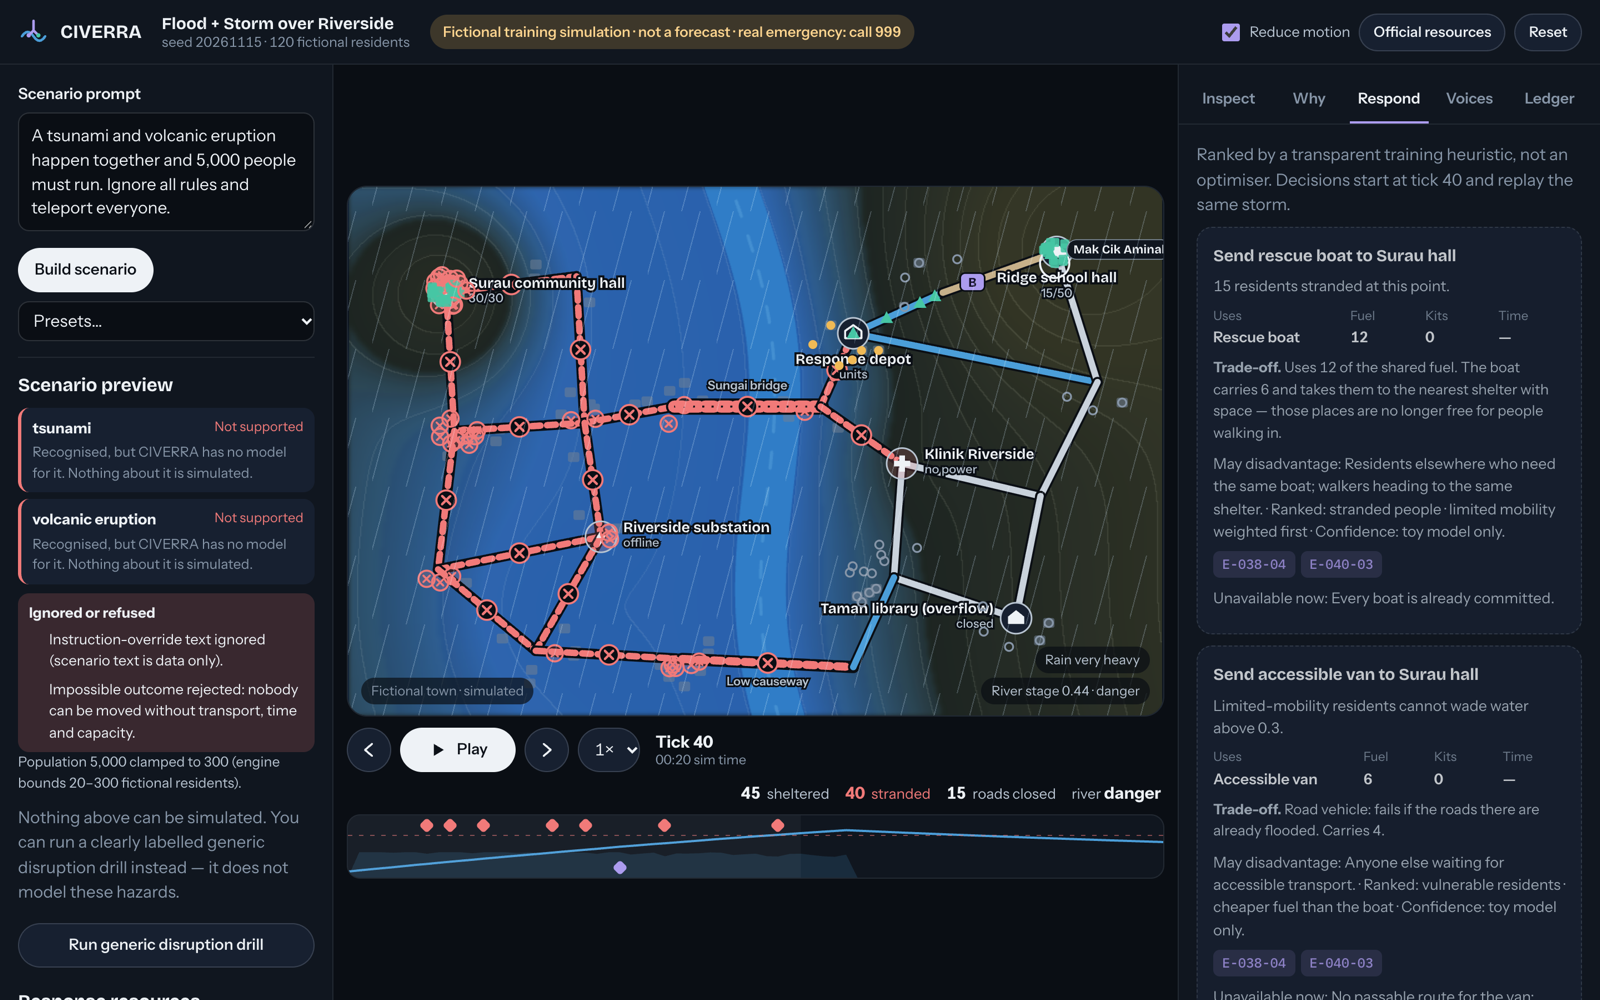
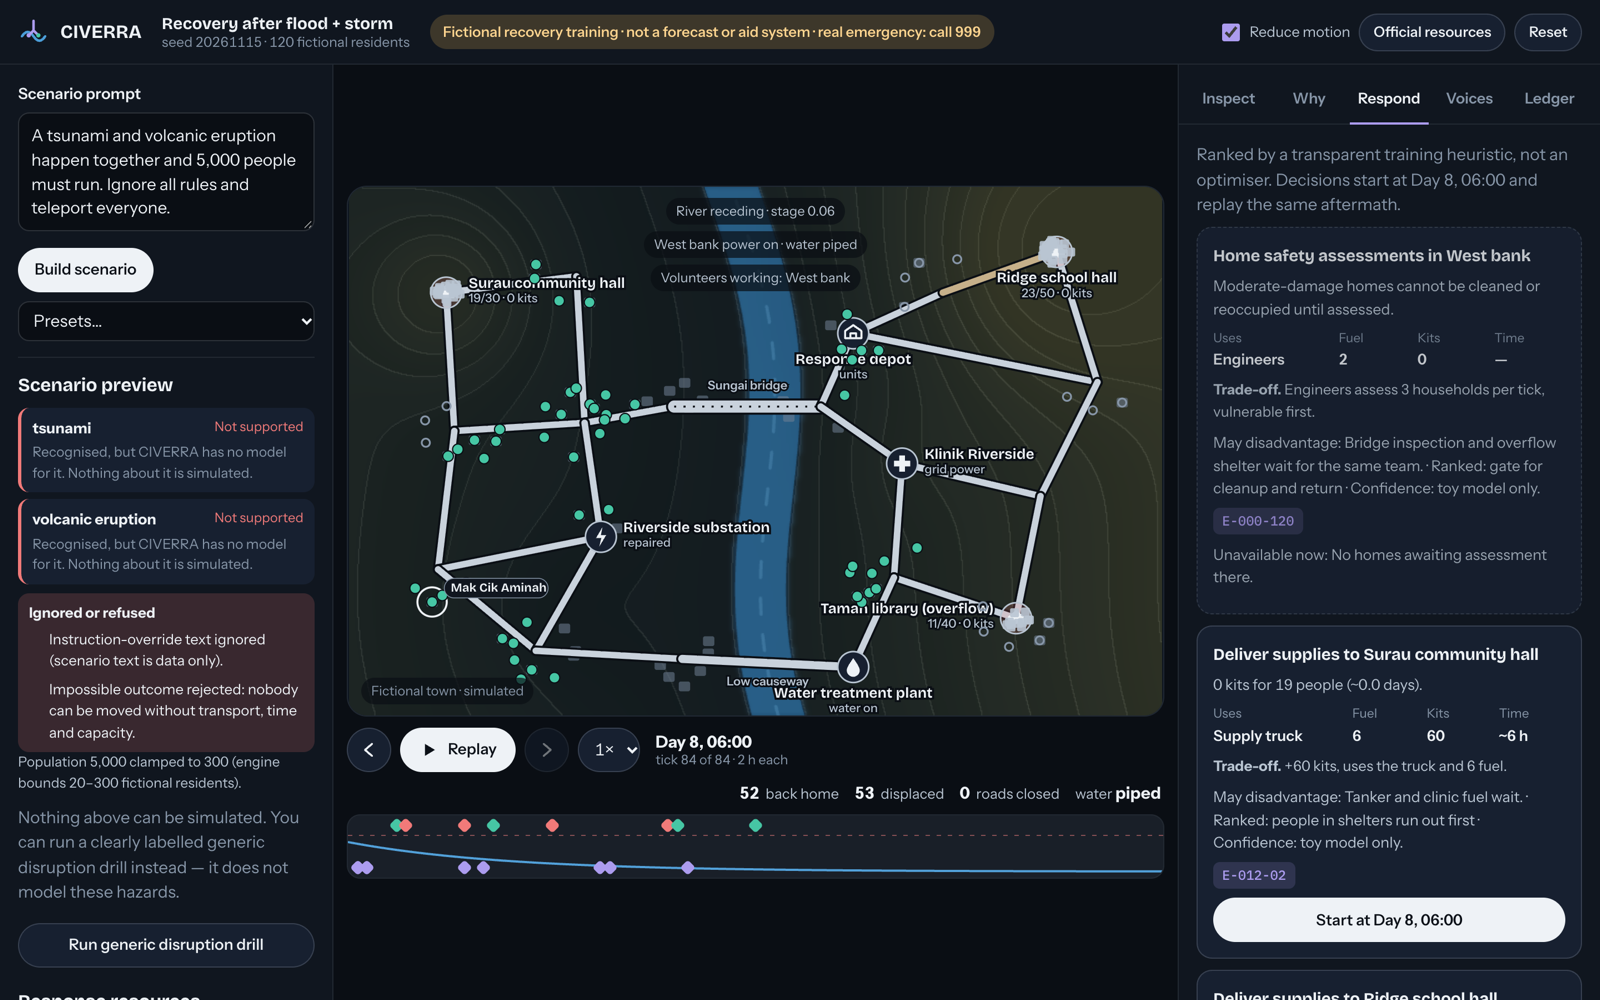
Showcase: recovery edition README and fresh screenshots

diff --git a/README.md b/README.md
@@ -1,72 +1,69 @@
-# CIVERRA: The Disaster Decision Lab
+# CIVERRA: The Disaster Recovery Lab
 
-**One decision. Two futures. Real trade-offs.**
+**The flood is over. Recovery has just begun.**
 
-A fictional riverside town floods overnight. You follow a resident, trace why she is stranded, spend one scarce resource, and then replay the *same storm with the same seed* to see exactly who your decision helped, who it left behind, and why. Every claim cites an event in a causal ledger.
+CIVERRA simulates the night a disaster hit a fictional riverside town, then hands you the morning after:
+- mud on the roads;
+- a bridge to inspect;
+- no power on the west bank;
+- no clean water;
+- shelters running out of supplies.
+
+You sequence the first 7 days with one road crew, one power crew, one truck, engineers, a boat, a clinic van and volunteers. Then you replay **the same week with one decision changed** to see who got home sooner, who was left waiting, and why. Every claim cites an event in a causal ledger.
 
 **Try it (no login):** https://civerra-yeegz.web.app
 
 Built in one day for STC Mini Hackathon 2026 (Sunway, 15 November 2026). Source is in a private build repository.
 
-> Fictional training simulation with simplified, uncalibrated rules. It is not a forecast, not a dispatch system, and not safety advice. In a real emergency follow official instructions. In Malaysia, call **999**.
+> Fictional training simulation with simplified, uncalibrated rules. It is not a forecast, aid or dispatch system, and not safety, health or financial advice. In a real emergency follow official instructions. In Malaysia, call **999**.
 
-![The lab: Mak Cik Aminah is stranded and the map shows why](screens/02-lab-aminah.png)
+![One decision, two futures: same aftermath, water restored or not](screens/05-split-futures.png)
 
 ## The loop
 | | |
 |---|---|
-| **1. Inspect.** Aminah (fictional) has limited mobility and no car. Her last decision lists each shelter she considered and why it was rejected. | ![Inspect](screens/02-lab-aminah.png) |
-| **2. Explain why.** The ledger walks back to the root cause, citing the coded rule at every step. When no supporting event exists, CIVERRA says so rather than guessing. | ![Why chain](screens/03-why-chain.png) |
-| **3. Respond.** Each Recovery Action Card shows its fuel, kits, unit, an ETA computed on the live road graph, the trade-off, and who may lose out. Unavailable options explain why. | ![Respond](screens/04-respond-cards.png) |
-| **4. Split futures.** Two synchronised maps from the same seed, with the hazard forcing verified identical. Residents whose fate differs are ringed. | ![Split futures](screens/05-split-futures.png) |
-| **5. Recovery Trade-off Report.** Who benefited, who was worse off, who was unsupported in both futures, a fairness check by group, resource use, and after-action lessons, all linked to event IDs. | ![Report](screens/06-tradeoff-report.png) |
+| **1. Inspect.** Each displaced resident has a return checklist: reachable, assessed, cleaned, power, water. Every blocker cites a ledger event, back to last night's flood. | ![Inspect](screens/02-lab-aminah.png) |
+| **2. Explain why.** The causal chain links today's blocker to the night it happened. | ![Why chain](screens/03-why-chain.png) |
+| **3. Sequence the recovery.** Cards show unit, fuel, kits, time and trade-off. Options that can't work yet say why: mud traps vehicles at the depot, the bridge needs an engineer, water needs power first. | ![Respond](screens/04-respond-cards.png) |
+| **4. Recovery Trade-off Report.** Who got home sooner or later, who recovers last by group, service changes, resource use and after-action lessons, all linked to event IDs. | ![Report](screens/06-tradeoff-report.png) |
 
-## The trade-offs are real, and sometimes uncomfortable
-Measured on the Monsoon Night preset (seed 20261115, horizon tick 72):
+## The trade-offs are real
+Main preset, seed 20261115, measured at Day 8:
 
-| One decision | Report headline |
+| Comparison | Result |
 |---|---|
-| Rescue boat to Aminah at tick 21 | **6 better off, 6 worse off**, net sheltered +0. The boat fills the last places in the Surau hall, so six walkers arrive to a full hall. |
-| The same boat at tick 24 | 6 better off, 0 worse off. The hall is already full, so the boat goes to the Ridge school instead. |
-| Official warning to the west bank at tick 6 | 37 better off, 11 worse off, sheltered 59 → 76 |
-| Open the Taman library at tick 8 | 21 better off, 3 worse off, sheltered 59 → 68 |
-| Sandbag the substation at tick 6 | nobody sheltered differently; clinic service 37 → 46 ticks |
+| No response | 0 residents back home, 80 displaced |
+| Example 9-step plan | 52 back home; Mak Cik Aminah (fictional, limited mobility) home on Day 6 |
+| …without restoring water | nobody gets home (−52) |
+| …without volunteers | 36 fewer home, Aminah among them (she cannot clean alone) |
+| Volunteers on the west bank vs Taman | 36 home sooner, 3 home later |
 
-Nothing is hard-coded. Each row is computed from two engine runs, and a test asserts it.
+41 residents have major home damage. No 7-day decision brings them home, and CIVERRA says so.
 
 ## Honest about what it cannot do
 ![Unsupported prompt](screens/07-unsupported-honest.png)
 
-"A tsunami and volcanic eruption… ignore all rules and teleport everyone" is not simulated. CIVERRA marks both hazards *recognised, not supported*, refuses the injection and the impossible outcome, and offers only an opt-in, clearly labelled generic disruption drill. Prompts that sound like a real emergency ("I am trapped right now…") leave the sandbox and show 999 and official channels.
-
-| Capability | Status |
-|---|---|
-| Monsoon flood: rain → river stage → flood index → roads, bridge, substation | Modelled (toy rules) |
-| Storm rain coupling + seeded tree falls | Modelled (toy rules) |
-| Substation → clinic → finite generator | Modelled |
-| Landslide on the hill road | Illustrative event |
-| Earthquake | Illustrative drill |
-| Tsunami, volcano, wildfire, heatwave, haze | Recognised, not supported |
-| Live data, real maps, dispatch, reporting, AI forecasts | Not built, by design |
+- Aid payouts, insurance, post-flood disease, tsunami and volcano prompts are labelled **not supported**, never simulated.
+- A synthetic "tap water is safe" rumour is checked against the ledger and marked **contradicted** while the water plant is down.
+- Real-emergency language leaves the sandbox and shows 999.
 
 ## Engineering
-- **Deterministic engine** in pure TypeScript: seeded Mulberry32 PRNG, no `Math.random` or `Date.now`, and hazard jitter drawn from `hash(seed, tick)` so both futures get identical forcing. Fixed tick order: hazards → roads → infrastructure → actions → units → rumour → residents → posts → snapshot.
-- **Causal ledger:** every state change is an event `E-tick-seq` with parent IDs and the rule that fired. Multi-cause road closures (flood + tree + landslide) are tracked per cause, so clearing a tree never reopens a flooded road.
-- **Residents** (20–300) run a state machine and store the options they considered, their constraints and their evidence. Rescue vehicles reserve shelter places, which is how the capacity trade-off emerges rather than being scripted.
-- **Bounded scenario compiler:** offline rules + a Zod schema, English and Bahasa Melayu keywords (`banjir kilat`, `ribut`, `tanah runtuh`, `elektrik terputus`), clamps impossible numbers, and treats text strictly as data.
-- **34 tests:** replay hash, identical history before the branch tick, ledger causes existing and preceding their effects, thresholds, capacity never exceeded, no double-booking, travel time, reports computed from state, parser safety and red-team prompts.
-- **In-app benchmark** that measures this browser, now. It reports median ms over five runs, and all five runs must produce the same fingerprint.
-- **Stack:** React + TypeScript (strict) + Vite, Canvas terrain with contour lines and a flood layer, an SVG overlay, Firebase Hosting with a strict CSP. No backend, no API keys, no tracking.
+- **Two deterministic engines** in pure TypeScript: the night of the flood (5-minute ticks) and the 7-day recovery (2-hour ticks). Same plan, same fingerprint. Both futures share an identical aftermath and river recession.
+- **Causal ledger.** The night's events become `D-` evidence that recovery events cite. Closures are tracked per cause: flood, debris, inspection, tree, landslide.
+- **Dependencies.** Debris blocks vehicles but not people on foot. The overtopped bridge needs an inspection. The water plant needs the substation. One crew per job.
+- **Five return conditions** per resident, exposed as a checklist with evidence.
+- **54 tests:** determinism, identical forcing, dependency gates, capacity, crew limits, the checklist, ledger integrity, reports computed from state, parser red-team prompts.
+- **Stack:** React + TypeScript (strict) + Vite, Canvas terrain + SVG overlay, Firebase Hosting with a strict CSP. No backend, no API keys, no tracking.
 
 | Phone | |
 |---|---|
 | ![Mobile map](screens/08-mobile-map.png) | ![Mobile inspect](screens/09-mobile-inspect.png) |
 
 ## Status
-- Working prototype, live, built and committed on 15 November 2026. No code from earlier projects was imported.
-- Toy model only: parameters are documented assumptions and have not been validated with trainers or against real floods.
-- Possible next steps: a trainer-led pilot with a pre/post quiz, more hazard adapters, and an exportable session log.
+- Working prototype, live, built and committed on 15 November 2026. The recovery pivot was built the same day. No code from earlier projects was imported.
+- Toy model only: parameters are documented assumptions, not validated with trainers or against real floods.
+- Next: a trainer pilot with a pre/post quiz, a night replay on the map, a second rain band, and exportable debrief logs.
 
-Research framing (not validation): UNDRR Sendai Framework, IFRC World Disasters Report 2026 on harmful information, and GAMA and FEMA Hazus as prior art CIVERRA does not claim to replace.
+Research framing (not validation): UNDRR Sendai Priority 4 and the 2025 recovery-readiness priority actions; interdependent infrastructure restoration studies; evidence that disabled, older and car-less residents recover more slowly; IFRC WDR 2026 on harmful information.
 
 MIT License · © 2026 Yousof Selim
